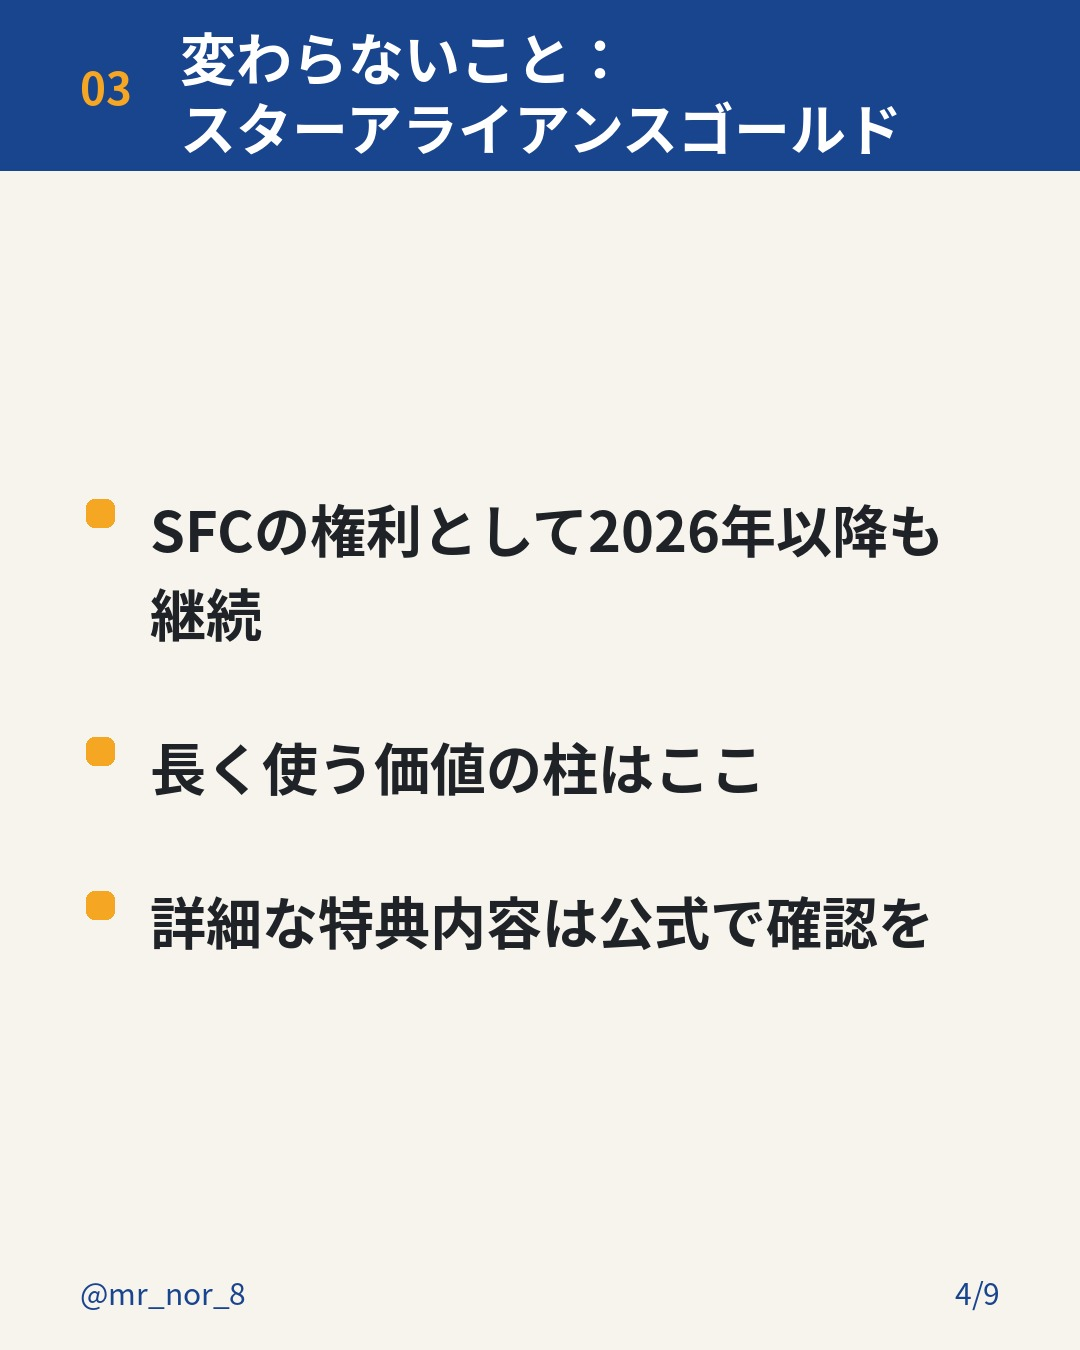
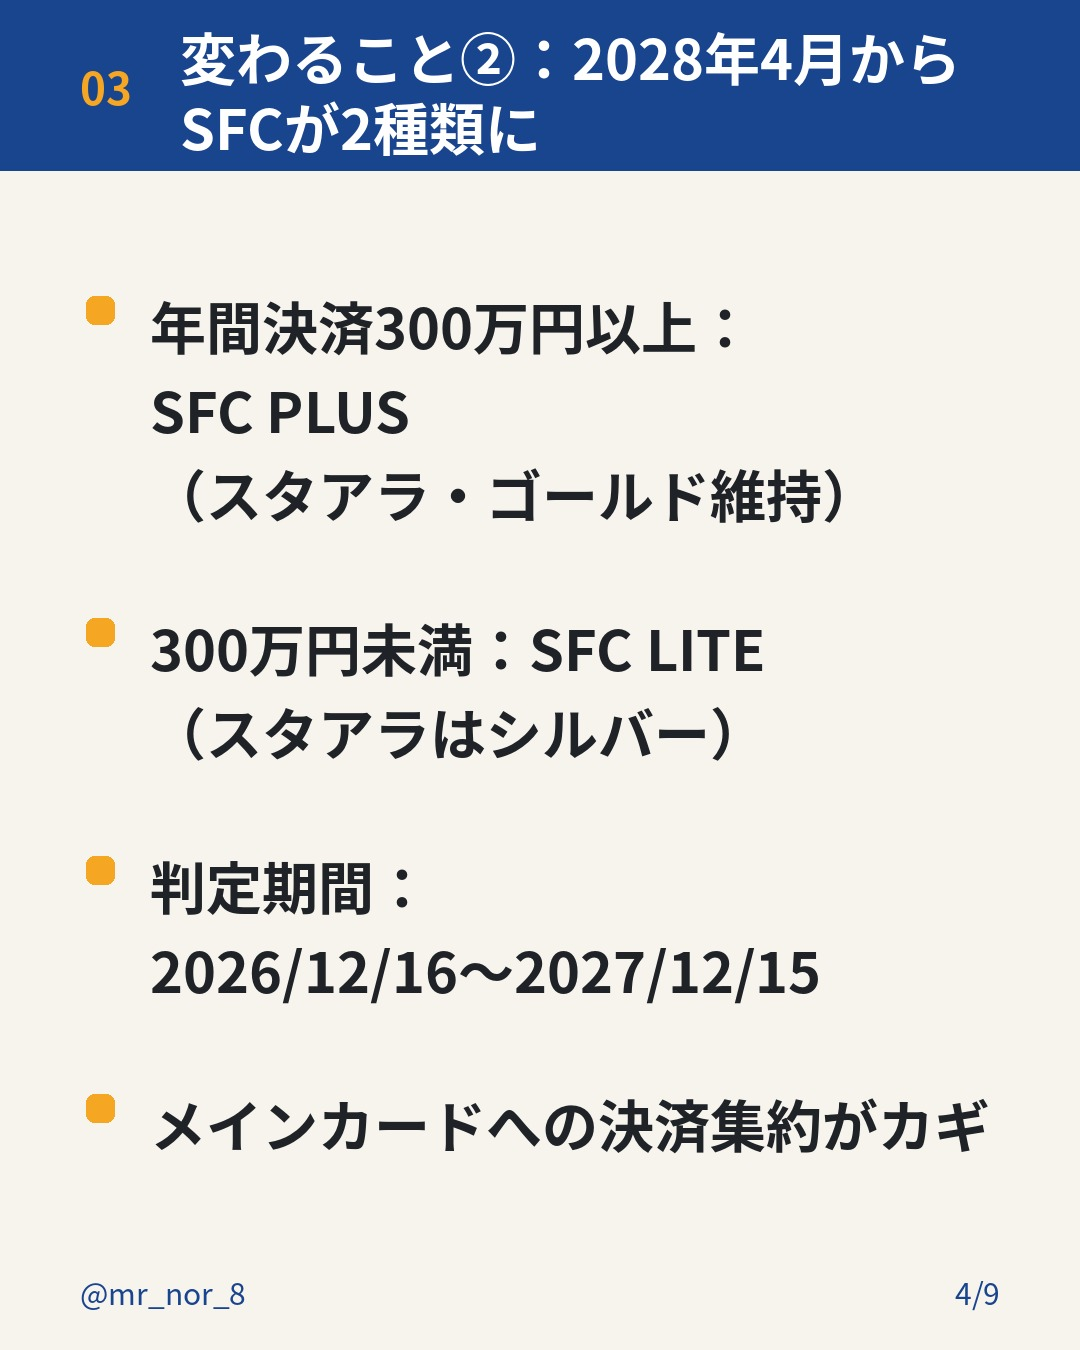
Rさんの確認に基づき修正（SFC 2028年改定／アメックス移行キャンペーンの対象・積算時期）

diff --git a/queue/2026-11-23/REVIEW.md b/queue/2026-11-23/REVIEW.md
@@ -107,7 +107,7 @@
 > SFC修行を始めるなら、「変わること」と「隠れた費用」を先に把握しておくのがおすすめです。
 >
 > ・2026年度をもってアップグレードポイントの発行が終了
-> ・スターアライアンスゴールドとしての権利は2026年以降も継続
+> ・2028年4月からSFCは2種類に。年間決済300万円以上はSFC PLUS（スターアライアンスゴールド維持）、300万円未満はSFC LITE（スターアライアンスはシルバー）。判定期間は2026/12/16〜2027/12/15
 > ・前泊・後泊の宿泊費は1泊8,000円×10回で8万円
 >
 > 私は2024年にSFC修行でANAダイヤモンドを達成し、2025年も継続。今年は3年目のダイヤ修行中です。修行は勢いで始めず、総額と使う年数で判断してください。
